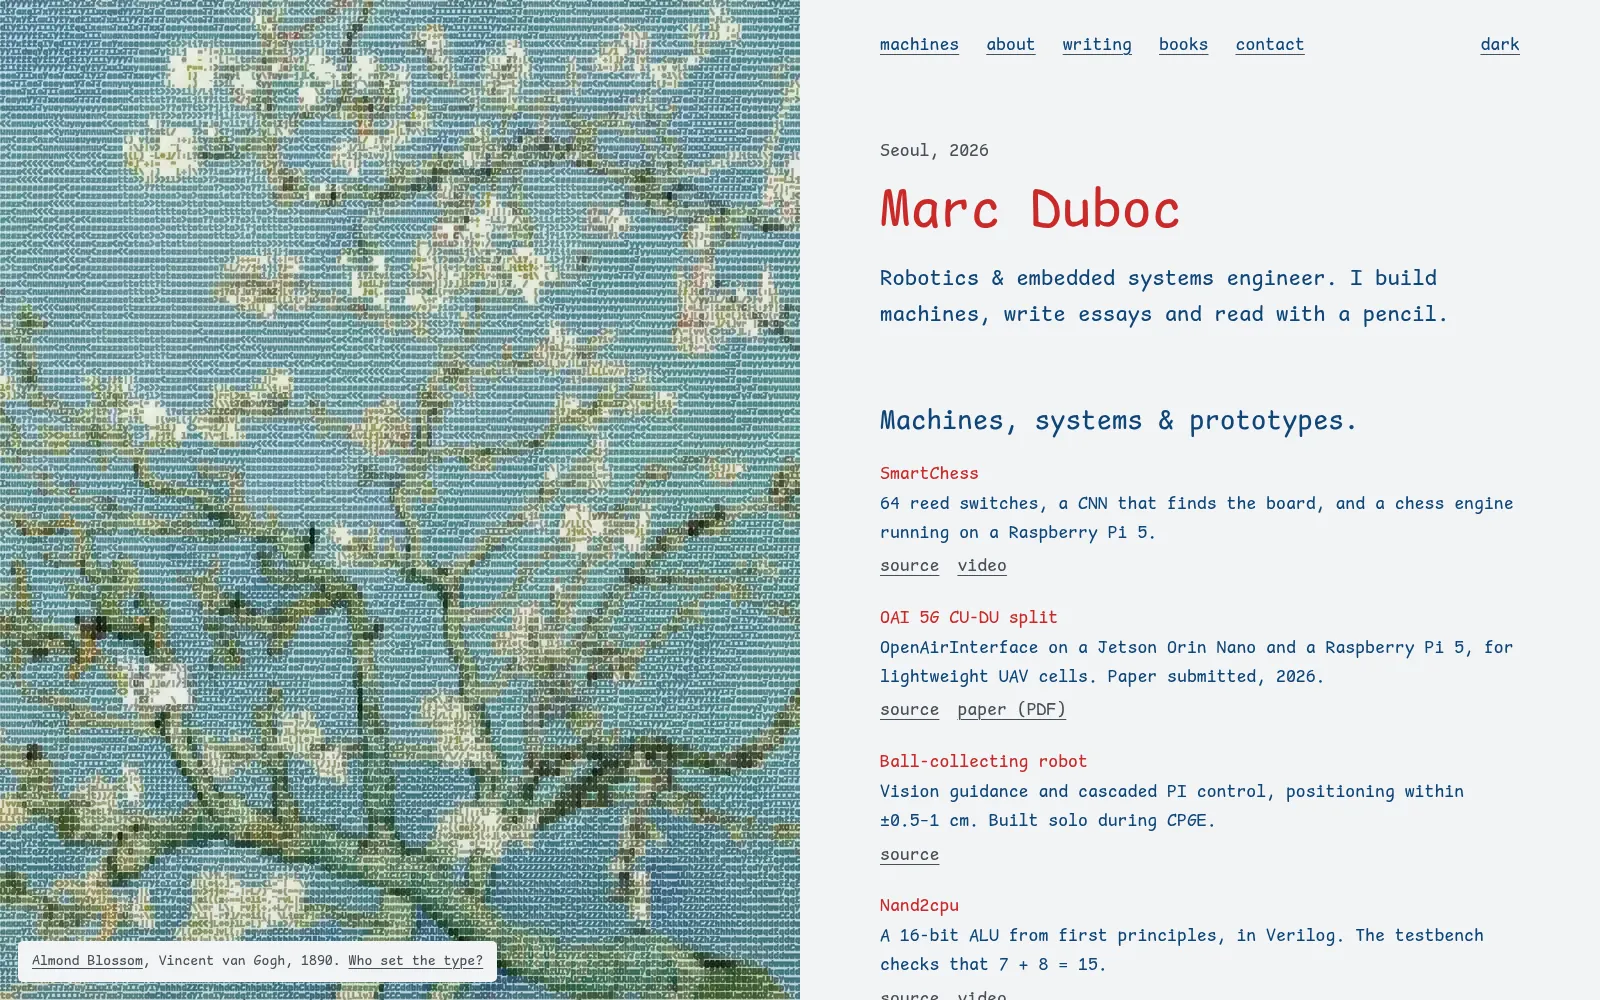
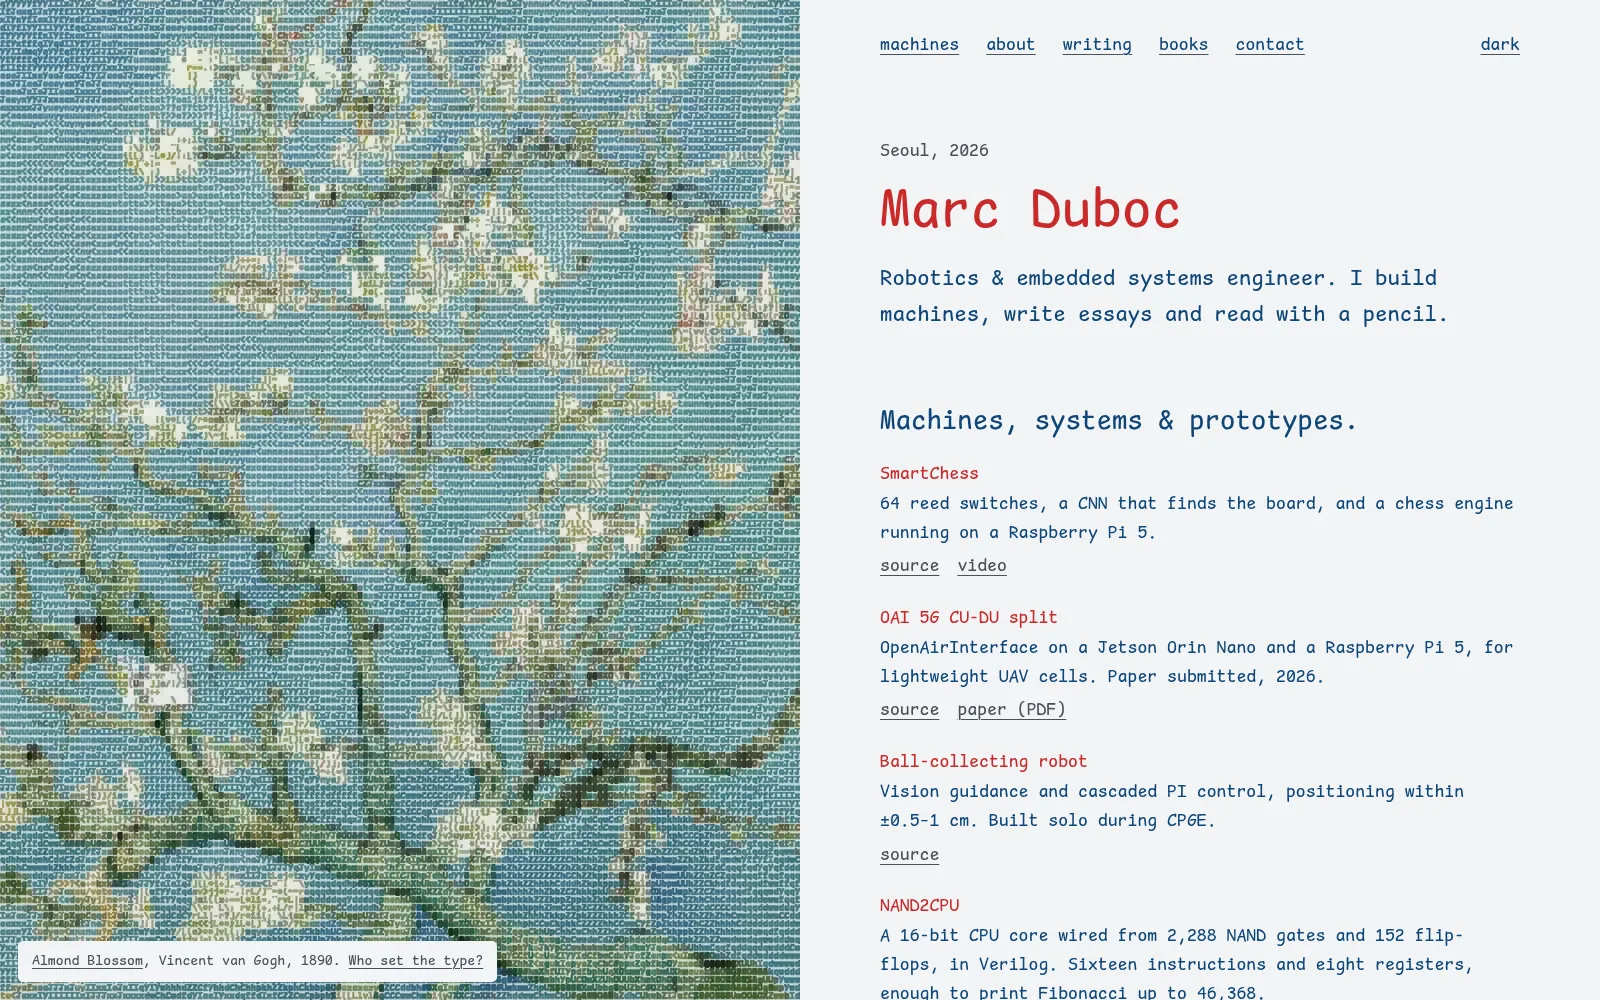
feat(home): NAND2CPU is a CPU core now, not only an ALU
The project grew from the 16-bit ALU into a 16-bit CPU core: 2,288 NAND
gates and 152 flip-flops, sixteen instructions, eight registers, and
programs such as Fibonacci up to 46,368 (numbers from its README). The
title follows the project's own spelling, NAND2CPU. The README's
homepage screenshot is retaken; CHANGELOG 2.1.6.

Changed region(s): [[0.5312, 0.93, 0.9375, 1.0], [0.5625, 0.899, 0.5938, 0.93], [0.2812, 0.434, 0.3125, 0.465]]

diff --git a/index.html b/index.html
@@ -75,7 +75,7 @@
           <li><h3>SmartChess</h3><p>64 reed switches, a CNN that finds the board, and a chess engine running on a Raspberry Pi 5.</p><p class="links"><a href="https://github.com/promaaa/smart-chess">source</a> <a href="https://www.youtube.com/watch?v=5BC216xx9qs">video</a></p></li>
           <li><h3>OAI 5G CU-DU split</h3><p>OpenAirInterface on a Jetson Orin Nano and a Raspberry Pi 5, for lightweight UAV cells. Paper submitted, 2026.</p><p class="links"><a href="https://github.com/promaaa/oai-cu-du-lab">source</a> <a href="assets/docs/oai-5g-research-paper.pdf">paper (PDF)</a></p></li>
           <li><h3>Ball-collecting robot</h3><p>Vision guidance and cascaded PI control, positioning within ±0.5–1 cm. Built solo during CPGE.</p><p class="links"><a href="https://github.com/promaaa/ball-collecting-robots">source</a></p></li>
-          <li><h3>Nand2cpu</h3><p>A 16-bit ALU from first principles, in Verilog. The testbench checks that 7 + 8 = 15.</p><p class="links"><a href="https://github.com/promaaa/nand2cpu">source</a> <a href="https://www.youtube.com/watch?v=wIBkvQ6MfKQ">video</a></p></li>
+          <li><h3>NAND2CPU</h3><p>A 16-bit CPU core wired from 2,288 NAND gates and 152 flip-flops, in Verilog. Sixteen instructions and eight registers, enough to print Fibonacci up to 46,368.</p><p class="links"><a href="https://github.com/promaaa/nand2cpu">source</a> <a href="https://www.youtube.com/watch?v=wIBkvQ6MfKQ">video</a></p></li>
           <li><h3>Evento</h3><p>Wallet-based ticketing on Solana Pay, built during a hackathon.</p><p class="links"><a href="https://github.com/promaaa/evento">source</a></p></li>
         </ul>
       </section>

diff --git a/CHANGELOG.md b/CHANGELOG.md
@@ -10,6 +10,11 @@ Each release is a git tag (`vX.Y.Z`) on `main`. Work lands through pull requests
 
 ## [Unreleased]
 
+## [2.1.6] - 2026-10-12
+
+### Changed
+- NAND2CPU is now a 16-bit CPU core, not only an ALU: 2,288 NAND gates and 152 flip-flops, sixteen instructions, eight registers. The README's homepage screenshot follows.
+
 ## [2.1.5] - 2026-10-07
 
 ### Changed
